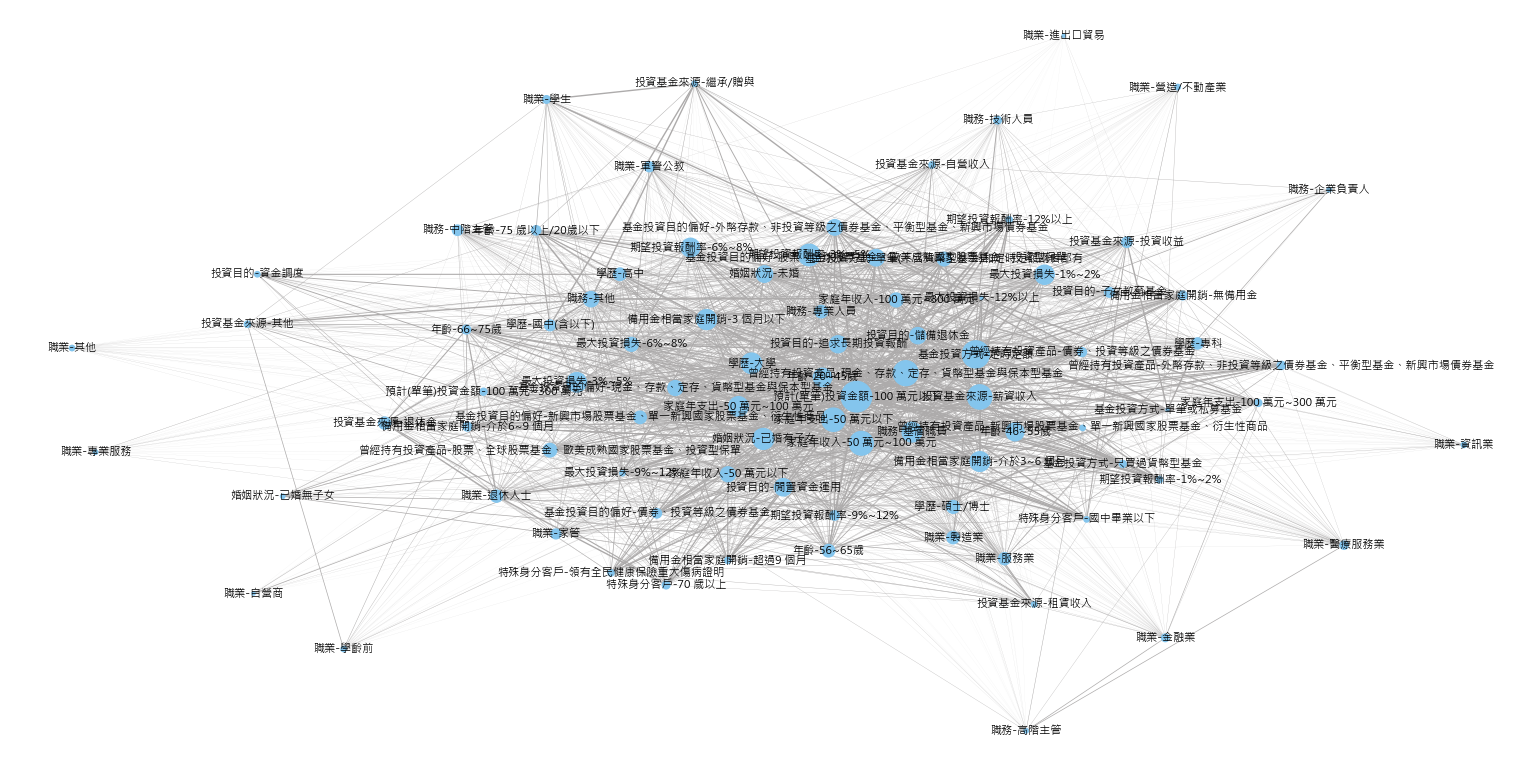
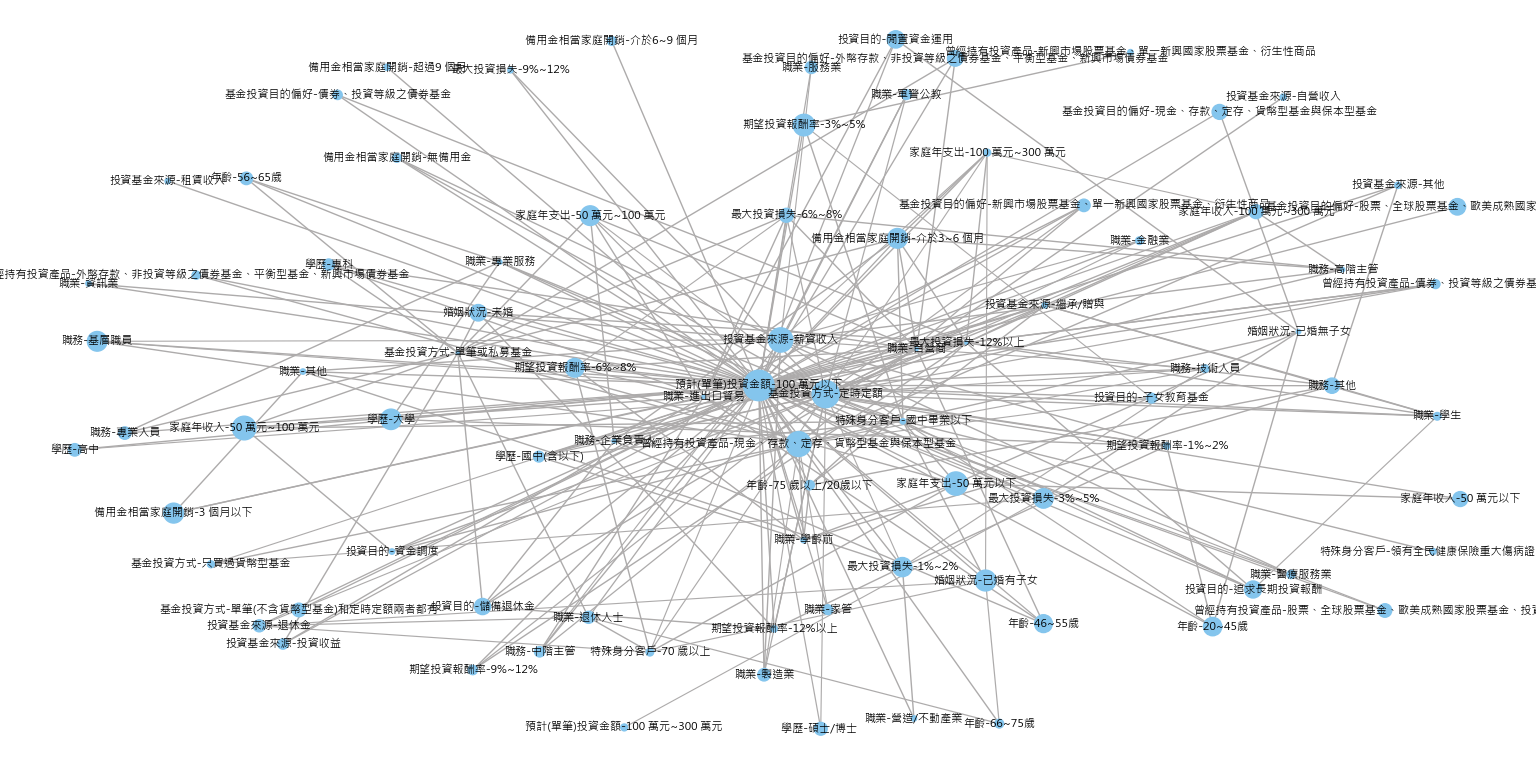
add histogram and revise co-occurrence_graph

diff --git a/HW2/histogram.py b/HW2/histogram.py
@@ -1,0 +1,10 @@
+import numpy as np
+import pandas as pd
+import matplotlib.pyplot as plt
+
+original_data = pd.read_csv("co-occurrence_matrix.csv").drop(columns=["label_headers"]).values.flatten()
+data = [i for i in original_data if i > 0]
+plt.hist(data, bins = 20, cumulative = True, edgecolor='black')
+plt.yticks(np.arange(500, 5000, step=500))
+plt.show()
+

diff --git a/HW2/co-occurrence_graph.py b/HW2/co-occurrence_graph.py
@@ -23,7 +23,7 @@ for i in range(len(co_matrix)):
 
 for i in range(len(co_matrix)):
     for j in range(len(co_matrix)):
-        if (i != j) and (co_matrix[i][j] != 0.0):
+        if (i != j) and (co_matrix[i][j] >= 0.8):
             G.add_edge(nm_list[i], nm_list[j], weight = co_matrix[i][j])
 
 #k = distances between nodes
